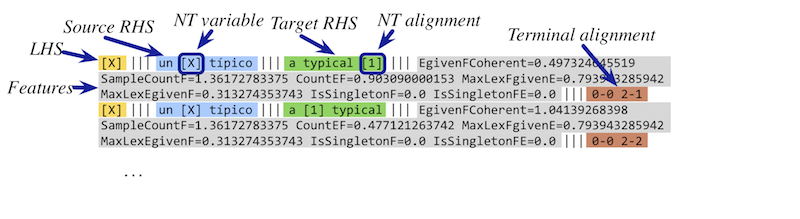
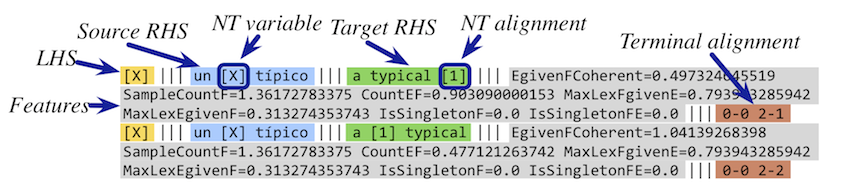
more detail on grammar files

diff --git a/documentation/grammar-format.md b/documentation/grammar-format.md
@@ -1,0 +1,23 @@
+---
+layout: documentation
+title: cdec - Rule format
+---
+
+The following illustrates the text encoding of a [SCFG](/concepts/scfgs.html) consisting of two rewrite rules:
+
+![Rule format](/img/rulefile.png)
+
+This text file consists of the following fields, separated by a triple pipe symbol (`|||`):
+
+ - The **left-hand side (LHS)** is the nonterminal category that the rule rewrites as.
+ - The **source language right-hand side (RHS)** is the string of source language terminal symbols and **nonterminal variables**. Nonterminal variables are surrounded by square brackets and contain only numbers and uppercase letters; e.g., `[X]`, `[NT]`, `[SBAR]`, or `[VP]`.  It is not necessary to provide an source nonterminal variable indices since they may only be indexed 1, 2, 3...
+ - The **target RHS** is the sequence of target language terminal symbols and **nonterminal references**. Nonterminal references indicate correspondences to nonterminal symbols in the source side and are designated by the 1-based index of the source nonterminal, for example `[1]` and `[2]`. It is not necessary to specify the source nonterminal type since this is determined by the reference.
+ - The **features** of a rule are a list of key-value pairs. Any derivation that uses this rule will have these feature vector added to its derivation feature vector.
+ - *Optional*. The **terminal alignments** indicate the internal word alignments of the terminal symbols in the source and target languages. These may be useful for computing some feature values at run time.
+
+## Source code
+
+Data structures for representing individual rules are defined in `decoder/trule.h`.
+
+
+

diff --git a/guide/tutorial.md b/guide/tutorial.md
@@ -16,7 +16,7 @@ title: cdec system building tutorial
  - [Compile `cdec`](compiling.html) and run `tests/run-system-tests.pl`
  - Build the `pycdec` Python language extensions to `cdec`
  - Download and compile [SRILM](http://www.speech.sri.com/projects/srilm/download.html) (for estimating the language model)
- - Download and untar [`cdec-spanish-demo.tar.gz`](http://data.cdec-decoder.org/cdec-spanish-demo.tar.gz) (16.7 MB)
+ - Download and untar [the training, development, and test data](http://data.cdec-decoder.org/cdec-spanish-demo.tar.gz) (16.7 MB)
 
 </section>
 <section>
@@ -126,7 +126,7 @@ The grammars extracted in this section are written to the `dev.grammars` and `de
     1263742 CountEF=0.301030009985 MaxLexFgivenE=1.31197583675 MaxLexEgivenF=0.796108067036 IsSingletonF=0.0 IsSin
     gletonFE=1.0 ||| 0-0 1-1 3-2 4-4
 
-You can read more about [the cdec grammar format](/documentation/rule-format.html).
+You can read more about [the cdec grammar format](/documentation/grammar-format.html) to understand the contents of these files.
 
 **Exercises:**
 

diff --git a/guide/grammar_extraction.md b/guide/grammar_extraction.md
@@ -2,5 +2,5 @@
 layout: documentation
 title: Grammar extraction
 ---
-Grammar extraction is the process of building a [translation grammar](/concepts/scfgs.html) from a [word-aligned](/concepts/alignment.html) parallel corpus. Unlike other translation systems, `cdec` recommends using [per-sentence grammars](psgs.html), i.e., grammars are constructed that are filtered for each sentence that is going to be translated.
+Grammar extraction is the process of building a [translation grammar](/concepts/scfgs.html) from a [word-aligned](/concepts/alignment.html) parallel corpus. Unlike other translation systems, `cdec` recommends using [per-sentence grammars](psgs.html), i.e., grammars are constructed that are filtered for each sentence that is going to be translated. You can read more about [the grammar format](/documentation/grammar-format.html) used with cdec.
 

diff --git a/concepts/scfgs.md b/concepts/scfgs.md
@@ -2,5 +2,5 @@
 layout: documentation
 title: SCFGs
 ---
-*Synchronous context-free grammars* (SCFGs) are a generalization of [context-free grammars](http://en.wikipedia.org/wiki/Context-free_grammar) to generate strings in two languages.
+*Synchronous context-free grammars* (SCFGs) are a generalization of [context-free grammars](http://en.wikipedia.org/wiki/Context-free_grammar) to generate strings in two languages. You can read more about [the SCFG file format](/documentation/grammar-format.html) used with cdec.
 

diff --git a/guide/psgs.md b/guide/psgs.md
@@ -9,3 +9,5 @@ Per-sentence grammars are [synchronous context-free grammars](/concepts/scfgs.ht
     <seg grammar="/home/cdec/grammar.125.scfg.gz"> Hier ist ein Satz . </seg>
     <seg grammar="/home/cdec/grammar.126.scfg.gz"> Ein anderer Satz ! </seg>
 
+Per-sentence grammars must be in the [standard cdec grammar format](/documentation/grammar-format.html) and may optionally be compressed using `gzip`.
+
